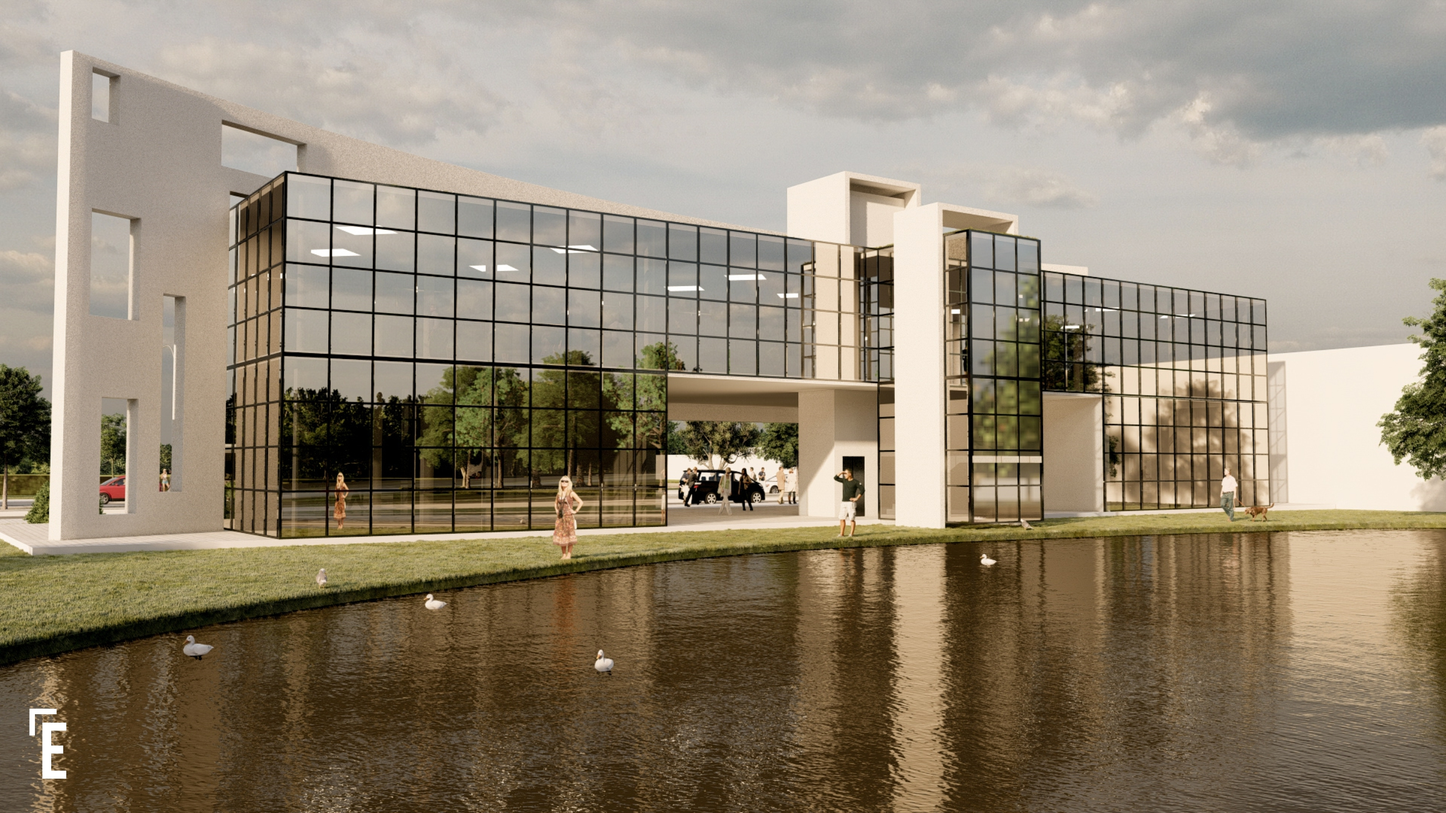
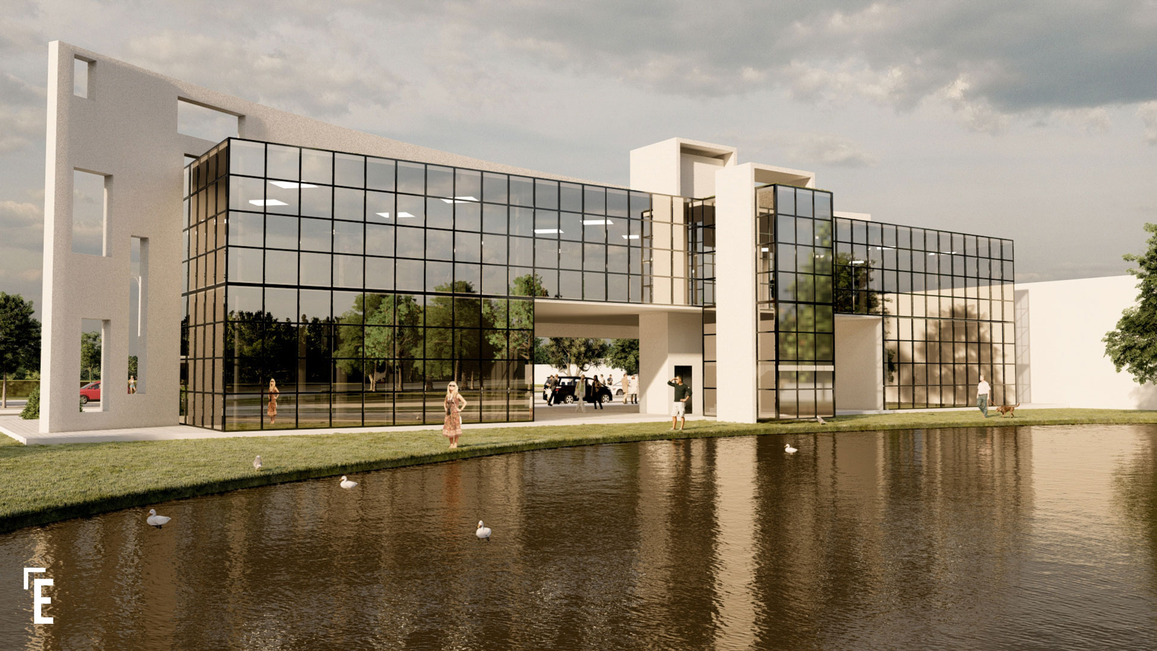
Nuevas Modificaciones
Ultimas modificaciones - optimización de imágenes

diff --git a/static/js/proyectos/albumes.js b/static/js/proyectos/albumes.js
@@ -3,7 +3,7 @@ let sliderSection = document.getElementsByClassName("album_contenedorFotos"), sl
 const btnLeft = document.getElementById("previous"), btnRight = document.getElementById("next");
 slider.insertAdjacentElement("afterbegin", sliderSectionLast); 
 
-slider.style.width = (100 * sliderSection.length) + '%'
+slider.style.width = (100 * sliderSection.length) + '%';
 
 const time_ms = 500;
 const time_s = time_ms / 1000;
@@ -16,7 +16,7 @@ function Next() {
     setTimeout(function () {
         slider.style.transition = "none";
         slider.insertAdjacentElement("beforeend", n);
-        slider.style.marginLeft = "-100%"
+        slider.style.marginLeft = "-100%";
     }, time_ms);
 };
 
@@ -26,7 +26,7 @@ function previous() {
     setTimeout(function () {
         slider.style.transition = "none";
         slider.insertAdjacentElement("afterbegin", n);
-        slider.style.marginLeft = "-100%"
+        slider.style.marginLeft = "-100%";
     }, time_ms);
 };
 
